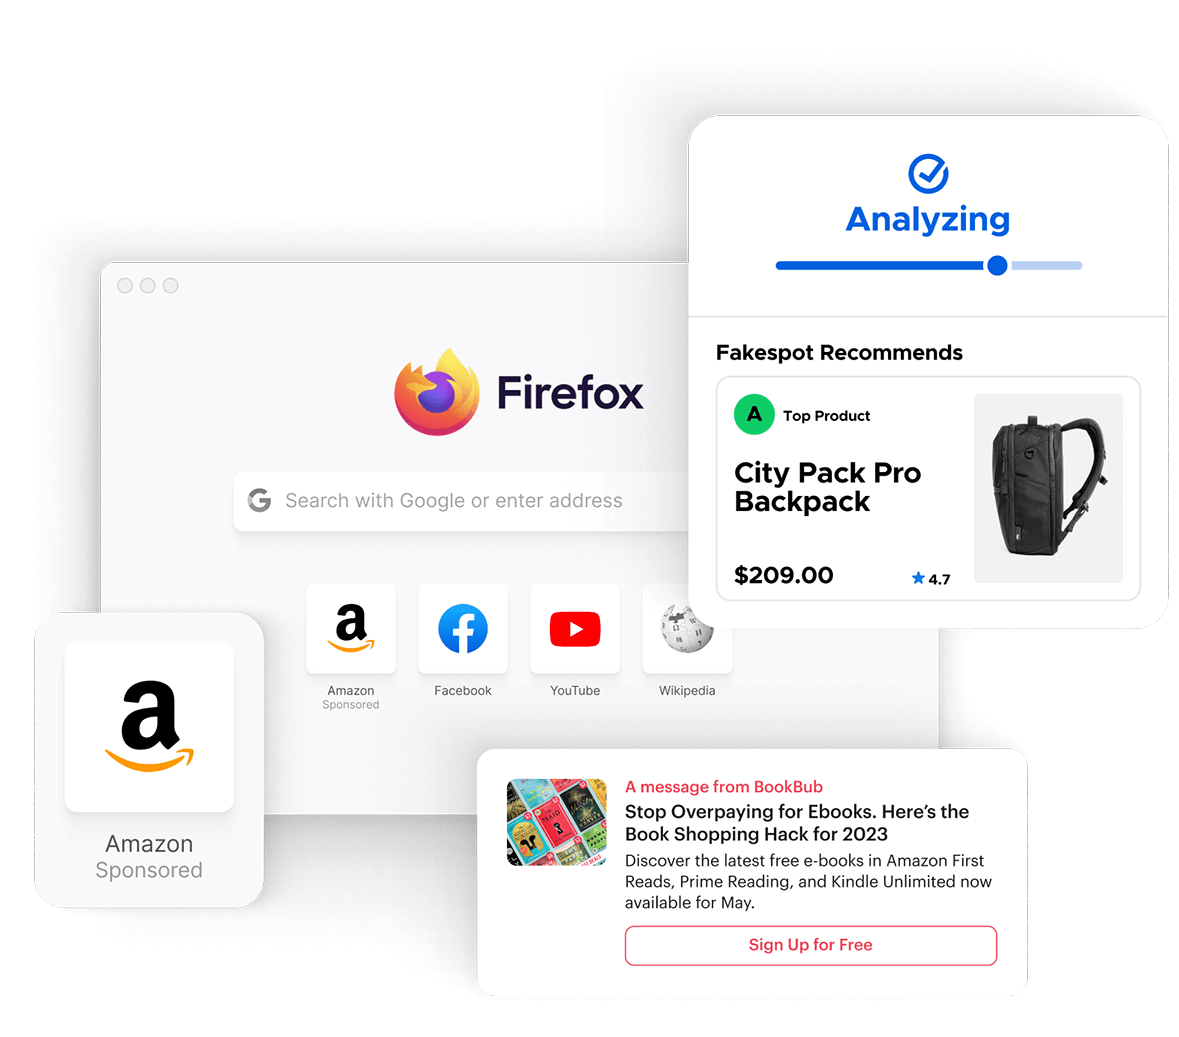
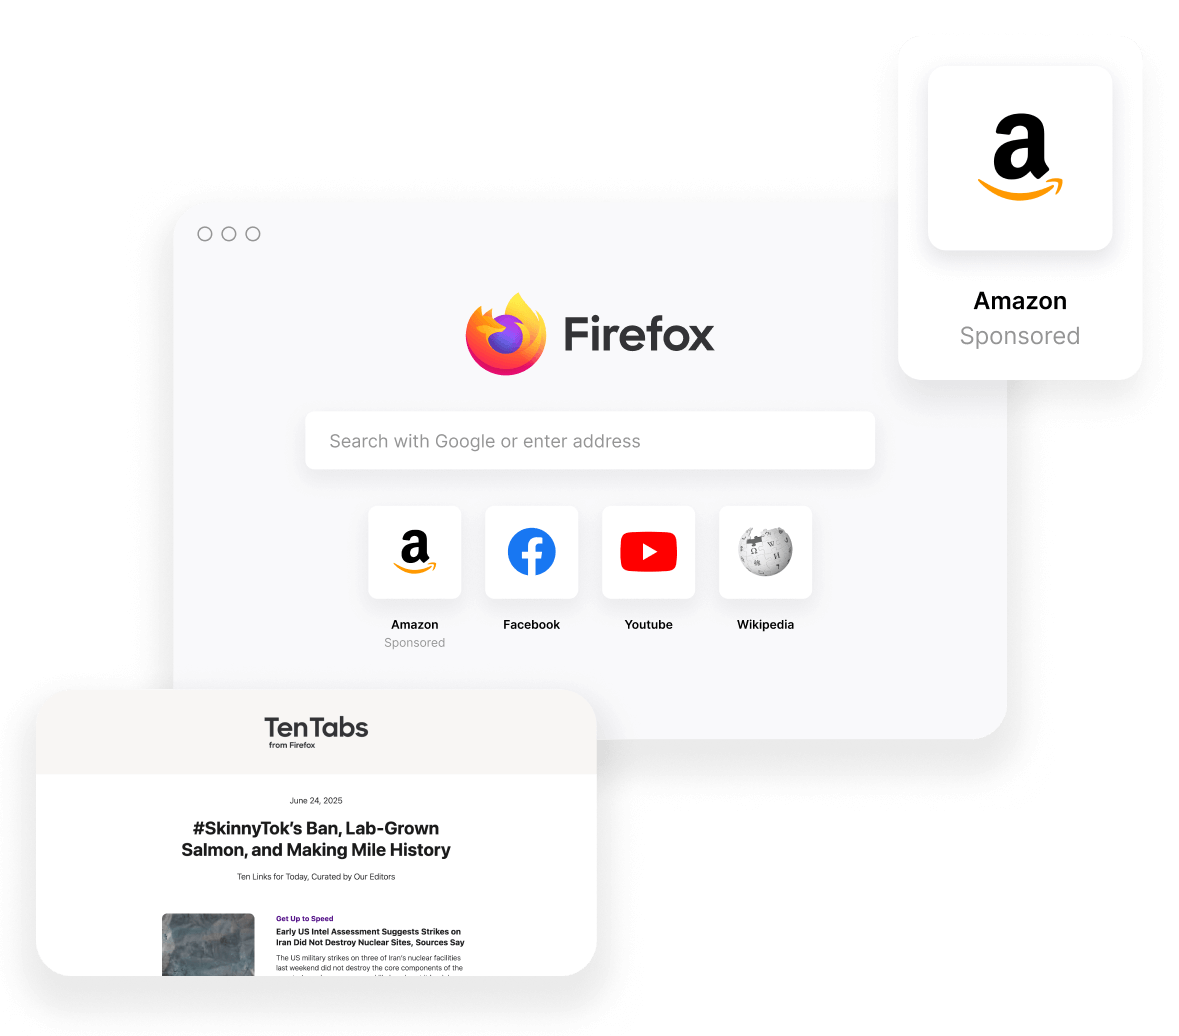
add Ten Tabs to advertising pages (fix #16401)

diff --git a/bedrock/mozorg/templates/mozorg/advertising/formats.html b/bedrock/mozorg/templates/mozorg/advertising/formats.html
@@ -208,6 +208,91 @@
   </ul>
 </section>
 
+<hr>
+
+<section class="mozads-product">
+  {% call split(
+    base_el='div',
+    block_class='mzp-t-content-xl',
+    media_include='mozorg/advertising/includes/product-ten-tabs-media.html',
+    media_class='mzp-l-split-h-center',
+    media_after=False,
+  ) %}
+    <h2>Ten Tabs Newsletter</h2>
+    <p class="mozads-content-intro">The Ten Tabs newsletter provides premium editorial content delivered directly to users’ inboxes. Our mission is to enable users to enjoy articles from around the web on their own schedule - saving content to personal libraries that can be accessed whenever and wherever.</p>
+
+    <p>Our editor-curated newsletter highlights popular stories and saves the second placement for your brand.</p>
+
+    <p>
+      <a class="mzp-c-button" href="https://mozilla.formstack.com/forms/advertising" rel="external noopener" target="_blank" data-cta-text="Get started" data-cta-position="mdn-section">
+        Get started
+        <span class="mzp-c-button-icon-end">
+          <svg width="24px" height="24px" viewBox="0 0 24 24" xmlns="http://www.w3.org/2000/svg">
+            <g stroke="none" stroke-width="1" fill="none" fill-rule="evenodd" stroke-linecap="round" stroke-linejoin="round">
+                <g transform="translate(4.000000, 4.000000)" stroke="currentColor" stroke-width="2">
+                    <polyline points="9 0 16 0 16 7"></polyline>
+                    <path d="M8,8 L16,0"></path>
+                    <path d="M4,-1.77635684e-15 L3,-1.77635684e-15 C1.34314575,-1.47199765e-15 -2.02906125e-16,1.34314575 0,3 L0,13 C2.02906125e-16,14.6568542 1.34314575,16 3,16 L13,16 C14.6568542,16 16,14.6568542 16,13 L16,12"></path>
+                </g>
+            </g>
+          </svg>
+        </span>
+      </a>
+    </p>
+  {% endcall %}
+
+  <ul class="mozads-valueprops mzp-l-content mzp-t-content-xl mzp-t-content-nospace mzp-l-columns mzp-t-columns-three">
+    {% call picto(
+      base_el='li',
+      image=resp_img(
+        url='img/mozorg/advertising/icon-eye.svg',
+        optional_attributes={
+          'class': 'mzp-c-picto-image',
+          'loading': 'lazy',
+          'width': '32',
+        }
+      ),
+      body=True,
+    ) %}
+      <p>With over 3M subscribers and an <strong>open rate of nearly 30%</strong>,
+        your ads will get wide reach and excellent engagement with a high-value
+        audience.</p>
+    {% endcall %}
+
+    {% call picto(
+      base_el='li',
+      image=resp_img(
+        url='img/mozorg/advertising/icon-globe.svg',
+        optional_attributes={
+          'class': 'mzp-c-picto-image',
+          'loading': 'lazy',
+          'width': '32',
+        }
+      ),
+      body=True,
+    ) %}
+      <p>Drive lower-funnel outcomes through personalized and contextual targeting
+        in a <strong>privacy-safe environment</strong>.</p>
+    {% endcall %}
+
+    {% call picto(
+      base_el='li',
+      image=resp_img(
+        url='img/mozorg/advertising/icon-star.svg',
+        optional_attributes={
+          'class': 'mzp-c-picto-image',
+          'loading': 'lazy',
+          'width': '32',
+        }
+      ),
+      body=True,
+    ) %}
+      <p>Benefit from <strong>adjacent curated content by trusted &amp; brand-safe
+        advertisers</strong>, adding value to users’ overall experience.</p>
+    {% endcall %}
+  </ul>
+</section>
+
 {% call callout(
   class='mzp-t-l-compact mzp-t-background-secondary mozads-footer',
   title='Download our Ad Standards & Guidelines',

diff --git a/bedrock/mozorg/templates/mozorg/advertising/landing.html b/bedrock/mozorg/templates/mozorg/advertising/landing.html
@@ -177,6 +177,31 @@
           link_target='_blank',
           cta='Get started',
         )}}
+
+        {{ card(
+          class='mzp-c-card-medium',
+          heading_level=3,
+          title='Ten Tabs Newsletter',
+          ga_title='Ten Tabs Newsletter',
+          desc='Expertly curated content reaching millions of dedicated and engaged readers, enabling brands to contextually integrate and provide value to their audience.',
+          image=resp_img(
+            url='img/mozorg/advertising/product-ten-tabs.png',
+            srcset={
+              'img/mozorg/advertising/product-ten-tabs-15x.png': '1.5x'
+            },
+            optional_attributes={
+              'loading': 'lazy',
+              'class': 'mzp-c-card-image',
+              'width': '600',
+              'height': '400',
+            }
+          ),
+          aspect_ratio='mzp-has-aspect-3-2',
+          link_url='https://mozilla.formstack.com/forms/advertising',
+          link_rel='external noopener',
+          link_target='_blank',
+          cta='Get started',
+        )}}
       </div>
     </div>
   </section>

diff --git a/bedrock/mozorg/templates/mozorg/advertising/includes/product-ten-tabs-media.html b/bedrock/mozorg/templates/mozorg/advertising/includes/product-ten-tabs-media.html
@@ -1,0 +1,24 @@
+{#
+ This Source Code Form is subject to the terms of the Mozilla Public
+ License, v. 2.0. If a copy of the MPL was not distributed with this
+ file, You can obtain one at https://mozilla.org/MPL/2.0/.
+#}
+
+{{ resp_img(
+  url='img/mozorg/advertising/product-ten-tabs.png',
+  srcset={
+    'img/mozorg/advertising/product-ten-tabs-15x.png': '1.5x'
+  },
+  optional_attributes={
+    'loading': 'lazy',
+    'class': 'mzp-c-split-media-asset',
+    'width': '600',
+    'height': '400',
+  },
+)}}
+
+<aside class="mozads-product-audience">
+  <p><strong>3M+</strong> newsletter subscribers</p>
+  <p><strong>3x</strong> more likely to hold a graduate degree</p>
+  <p><strong>$110k+</strong> average household income</p>
+</aside>
